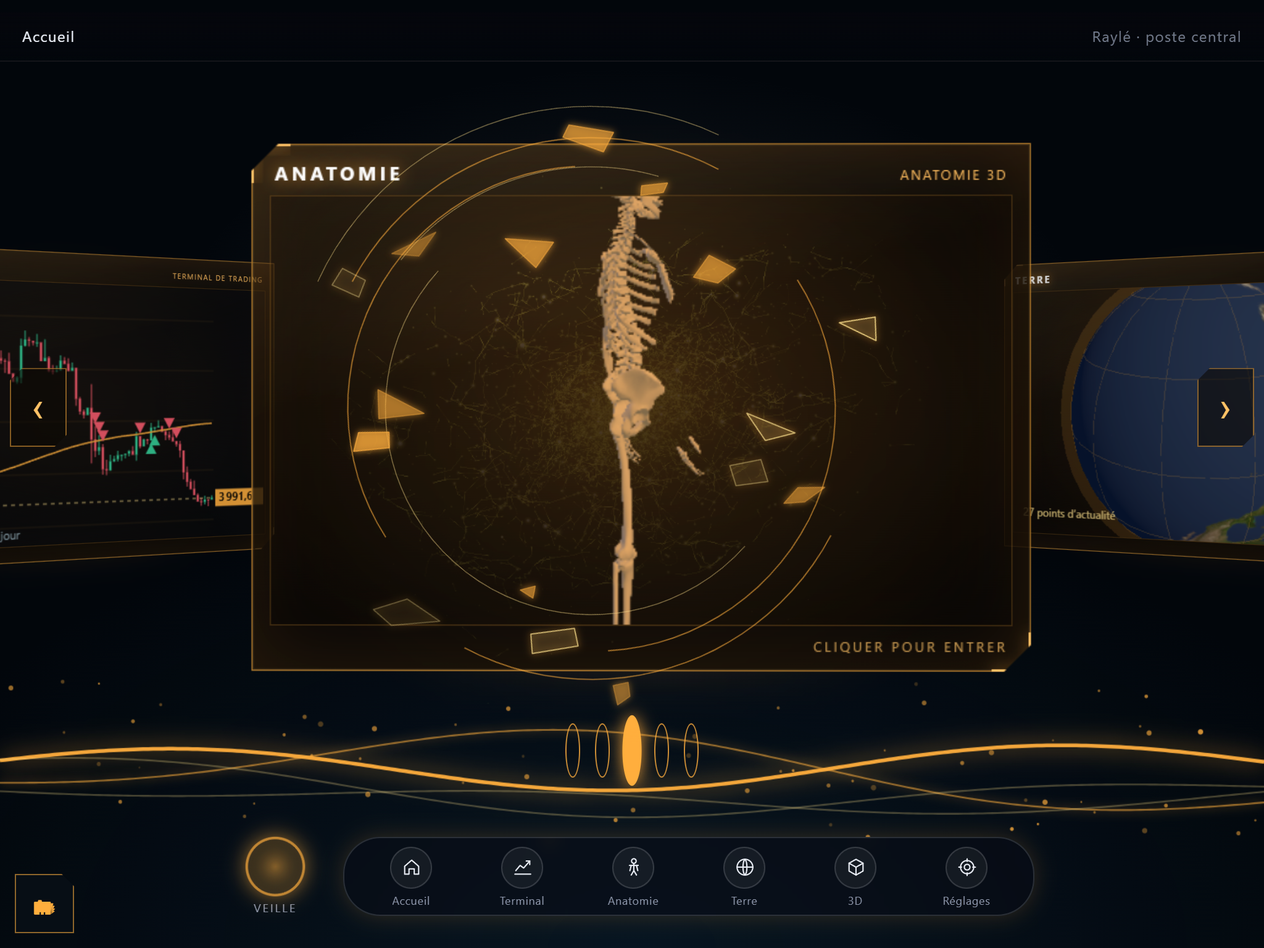
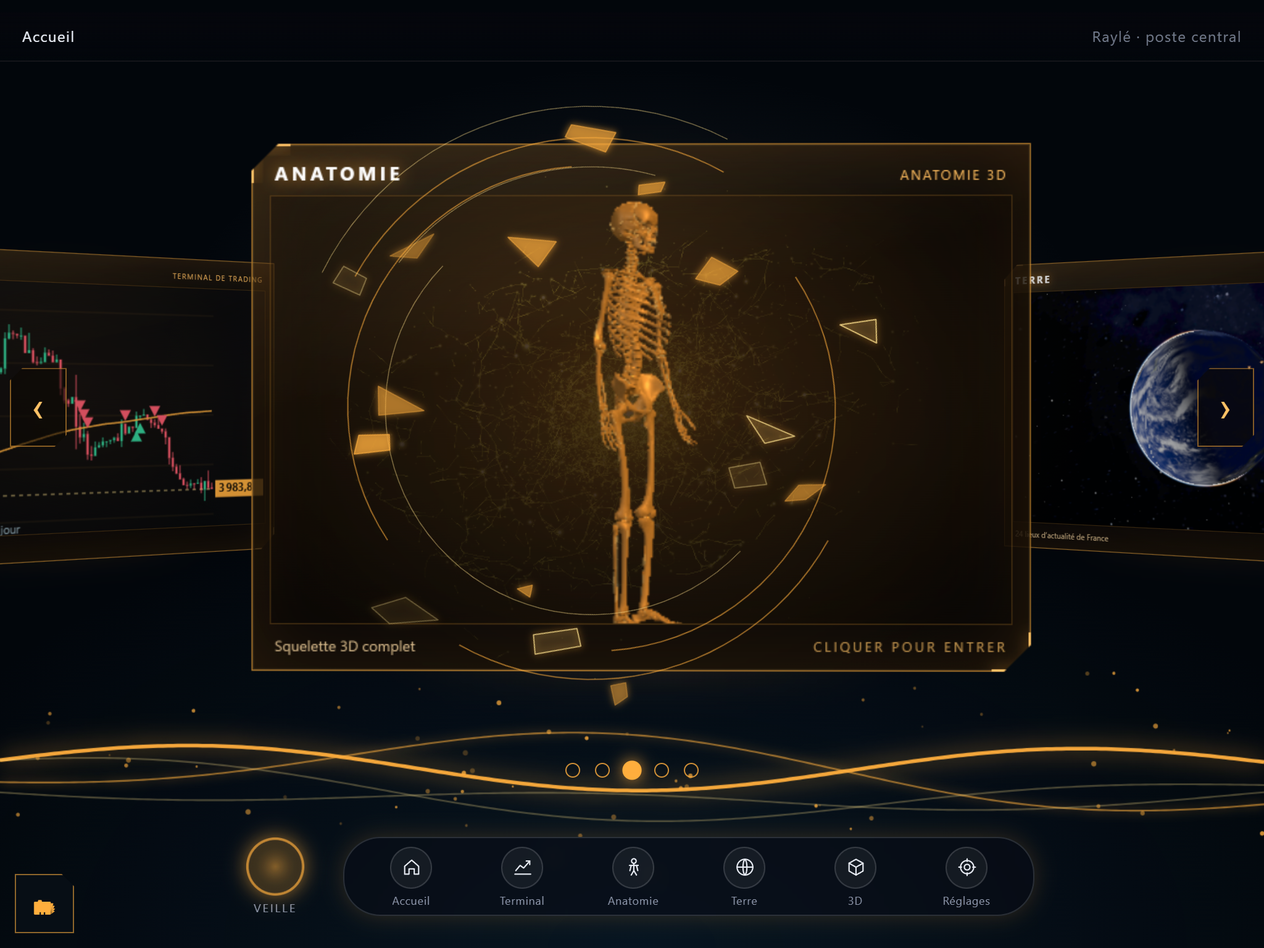
Etape 3 : Terre miniature = composant de la grande fenetre (globe.js, ciel, ACES), transition continue, pause hors centre ; squelette complet or chaud commun miniature/grande fenetre, eclairage 3 points, contours ; salle medicale doree ; tests et captures

diff --git a/core/commun/miniatures.js b/core/commun/miniatures.js
@@ -13,7 +13,7 @@
   let W=480, H=300;                         // résolution interne des miniatures (basse : 260 px de haut, largeur au format du panneau)
   const reduit=()=>!!(window.matchMedia&&matchMedia('(prefers-reduced-motion: reduce)').matches);
   const OR='#ffae3d', OR2='#ffe08a';
-  const minis=new Map(), visibles=new Set();
+  const minis=new Map(), visibles=new Set(); let centreId=null;
   let THREE=null, rendu=null, tempsMoyen=0, nMesures=0, lent=false, rafId=0, dernierTour=0;
 
   /* ───── moteur 3D partagé ───── */
@@ -75,48 +75,63 @@
     return { dessiner, tic(now){ if(!barres&&!charge) charger(); else if(now-dernierChargement>8000&&!charge) charger(); }, intervalle:1000, statique:false };
   }
 
-  /* ───── anatomie : squelette ───── */
+  /* ───── anatomie : le squelette COMPLET de la grande fenêtre (os-1 + os-2), même matériau or chaud (anatomie-or.js), éclairage à trois points, contours ───── */
   async function creerAnatomie(m){
-    await moteur(); const T=THREE;
-    m.scene=new T.Scene(); m.camera=new T.PerspectiveCamera(32,W/H,0.1,100); m.camera.position.set(0,0.1,4.6);
-    m.scene.add(new T.AmbientLight(0xffe6c0,0.9)); const l=new T.DirectionalLight(0xffc27a,2.2); l.position.set(2,3,4); m.scene.add(l); const l2=new T.DirectionalLight(0x7a9bff,0.6); l2.position.set(-3,1,-2); m.scene.add(l2);
+    await moteur(); const T=THREE, base=u=>new URL(u,document.baseURI).href;
+    const OR=await import(base('planetes/saturne/pc/anatomie-or.js'));
+    m.scene=new T.Scene(); m.camera=new T.PerspectiveCamera(30,W/H,0.1,100); m.camera.position.set(0,0.05,7.0);
+    OR.eclairageTroisPoints(m.scene,T);
     const pivot=new T.Group(); m.scene.add(pivot); m.pivot=pivot;
     try{
       const [{GLTFLoader},{MeshoptDecoder}]=await Promise.all([import('three/addons/loaders/GLTFLoader.js'),import('three/addons/libs/meshopt_decoder.module.js')]);
-      const g=await new GLTFLoader().setMeshoptDecoder(MeshoptDecoder).loadAsync(new URL('assets-lourds/anatomie/os-1.glb',document.baseURI).href);
-      const o=g.scene, boite=new T.Box3().setFromObject(o), taille=boite.getSize(new T.Vector3()), centre=boite.getCenter(new T.Vector3());
-      const s=3.3/Math.max(taille.y,0.001); o.scale.setScalar(s); o.position.sub(centre.multiplyScalar(s)); pivot.add(o);
-      o.traverse(x=>{ if(x.isMesh&&x.material){ x.material=x.material.clone(); if(x.material.color) x.material.color.lerp(new T.Color(0xffd9a0),0.35); } });
+      const L=new GLTFLoader().setMeshoptDecoder(MeshoptDecoder), parties=await Promise.all(['os-1','os-2'].map(f=>L.loadAsync(base('assets-lourds/anatomie/'+f+'.glb'))));
+      const corps=new T.Group(); for(const g of parties) corps.add(g.scene);
+      OR.teinterOr(corps,T);
+      const boite=new T.Box3().setFromObject(corps), taille=boite.getSize(new T.Vector3()), centre=boite.getCenter(new T.Vector3());
+      const s=3.6/Math.max(taille.y,0.001); corps.scale.setScalar(s); corps.position.sub(centre.multiplyScalar(s)); pivot.add(corps);
+      m.nbOs=OR.contours(corps,T);
     }catch(e){ m.erreur='squelette indisponible : '+String((e&&e.message)||e).slice(0,50); }
-    return { tic(now,dt){ pivot.rotation.y+=dt*0.45; if(!m.erreur||true) peindre3D(m); if(m.erreur){ m.ctx.fillStyle='#9db0bb'; m.ctx.font='13px "Segoe UI",system-ui,sans-serif'; m.ctx.fillText(m.erreur,12,H-18); } }, intervalle:50, statique:true };
+    return { tic(now,dt){ pivot.rotation.y+=dt*0.45; peindre3D(m); }, intervalle:50, statique:true };
   }
 
-  /* ───── terre : globe et actualité ───── */
+  /* ───── terre : LE composant de la grande fenêtre (globe.js : sphère de base jour / nuit, atmosphère, nuages, ciel étoilé, éclairage du soleil réel),
+     seulement en basse résolution : textures réduites, pas de tuiles (chargeur muet), pas de bâtiments ni de relief. Globe entier, centré, rotation lente. ───── */
   async function creerTerre(m){
-    await moteur(); const T=THREE;
-    m.scene=new T.Scene(); m.camera=new T.PerspectiveCamera(30,W/H,0.1,100); m.camera.position.set(0,0,5.2);
-    m.scene.add(new T.AmbientLight(0xffffff,0.55)); const s=new T.DirectionalLight(0xffe2b0,2.6); s.position.set(3,1.5,4); m.scene.add(s);
-    const globe=new T.Group(); m.scene.add(globe);
-    const mat=new T.MeshStandardMaterial({color:0x2a3a55,roughness:0.9,metalness:0}); const sph=new T.Mesh(new T.SphereGeometry(1.5,48,32),mat); globe.add(sph);
-    const halo=new T.Mesh(new T.SphereGeometry(1.62,32,24),new T.MeshBasicMaterial({color:0xffa83c,transparent:true,opacity:0.14,side:T.BackSide,blending:T.AdditiveBlending,depthWrite:false})); m.scene.add(halo);
-    // grille de méridiens dorés (toujours là, même sans texture)
-    const lignes=new T.Group(); const mg=new T.LineBasicMaterial({color:0xffae3d,transparent:true,opacity:0.22});
-    for(let la=-60;la<=60;la+=30){ const pts=[]; for(let lo=0;lo<=360;lo+=10){ pts.push(pos(la,lo-180,1.505,T)); } lignes.add(new T.Line(new T.BufferGeometry().setFromPoints(pts),mg)); }
-    for(let lo=-180;lo<180;lo+=30){ const pts=[]; for(let la=-90;la<=90;la+=10){ pts.push(pos(la,lo,1.505,T)); } lignes.add(new T.Line(new T.BufferGeometry().setFromPoints(pts),mg)); }
-    globe.add(lignes);
-    // texture réduite (décodage hors du fil principal) ; sans elle, le globe reste sombre avec sa grille
-    fetch(new URL('galaxie/textures/8k_earth_daymap.jpg',document.baseURI).href).then(r=>r.blob()).then(b=>createImageBitmap(b,{resizeWidth:1024,resizeHeight:512,resizeQuality:'low'})).then(bm=>{ const tx=new T.CanvasTexture(bm); tx.colorSpace=T.SRGBColorSpace; mat.map=tx; mat.color.set(0xffffff); mat.needsUpdate=true; }).catch(()=>{});
+    await moteur(); const T=THREE, base=u=>new URL(u,document.baseURI).href;
+    const [{creerGlobe},CO,REG,GEO,{creerCiel}]=await Promise.all([import(base('planetes/terre/pc/globe.js')),import(base('planetes/terre/pc/camera-orbite.js')),import(base('planetes/terre/pc/reglages-terre.js')),import(base('planetes/terre/pc/geo.js')),import(base('galaxie/ciel.js'))]);
+    const charger=async(fichier,w,h,couleur)=>{ const r=await fetch(base(fichier)); if(!r.ok) throw new Error('texture introuvable : '+fichier); const bm=await createImageBitmap(await r.blob(),{resizeWidth:w,resizeHeight:h,resizeQuality:'medium'}); const t=new T.CanvasTexture(bm); t.colorSpace=couleur; t.anisotropy=1; t.generateMipmaps=true; t.minFilter=T.LinearMipmapLinearFilter; t.needsUpdate=true; return t; };
+    // les mêmes images que la grande Terre (8k jour, nuit, nuages, Voie lactée), réduites
+    const [jour,nuit,nuages,voie]=await Promise.all([charger('galaxie/textures/8k_earth_daymap.jpg',1024,512,T.SRGBColorSpace),charger('galaxie/textures/2k_earth_nightmap.jpg',1024,512,T.SRGBColorSpace),charger('galaxie/textures/2k_earth_clouds.jpg',1024,512,T.NoColorSpace),charger('galaxie/textures/8k_stars_milky_way.jpg',1024,512,T.SRGBColorSpace)]);
+    const ciel=creerCiel({textureCiel:voie,anisotropie:()=>1}); ciel.nombreEtoiles(1500); ciel.riche(false); ciel.echelle(1);
+    const cfg={...REG.normaliser(null),profil:'basse',jeu:true,noms:false,batiments:false,radar:false,meteoAnim:false,ombres:false,nuages:true,nuagesReels:false,jourImagerie:null};
+    const chargeurMuet={demander:()=>{ const p=new Promise(()=>{}); p.annuler=()=>{}; return p; },etat:()=>({enFile:0,actives:0})};   // aucune tuile : le globe de base suffit à cette distance
+    const globe=creerGlobe({renderer:rendu,textures:{jour,nuit,nuages},ciel,chargeur:chargeurMuet,lire:()=>cfg,modeleVecteur:()=>null});
+    globe.scene.add(ciel.groupe);
+    const [{EffectComposer},{RenderPass},{OutputPass}]=await Promise.all([import('three/addons/postprocessing/EffectComposer.js'),import('three/addons/postprocessing/RenderPass.js'),import('three/addons/postprocessing/OutputPass.js')]);
+    const cible=new T.WebGLRenderTarget(W,H,{type:T.HalfFloatType}); const composer=new EffectComposer(rendu,cible); composer.setPixelRatio(1); composer.setSize(W,H); composer.addPass(new RenderPass(globe.scene,globe.camera)); composer.addPass(new OutputPass());
     // points d'actualité : lieux réels des sujets de France (Worker) ; aucun point sans données
-    const pts=new T.Group(); globe.add(pts); let n=0;
+    const pts=new T.Group(); globe.scene.add(pts); const lieux=[];
+    const etiquette=t=>{ try{ const s=m.canvas.closest('.ac-p').querySelector('footer span'); if(s) s.textContent=t; }catch(e){} };
     (async()=>{ try{
-      const [fil,suj]=await Promise.all([import(new URL('planetes/terre/pc/fil-actus.js',document.baseURI).href),import(new URL('planetes/terre/pc/actus-sujets.js',document.baseURI).href)]);
+      const [fil,suj]=await Promise.all([import(base('planetes/terre/pc/fil-actus.js')),import(base('planetes/terre/pc/actus-sujets.js'))]);
       const brut=await fil.chargerFil('france','',{}), mod=suj.modelesFil(brut,{max:40});
-      for(const x of mod.sujets){ const l=x.lieu; if(!l||!Number.isFinite(l.lat)||!Number.isFinite(l.lon)) continue; const p=new T.Mesh(new T.SphereGeometry(0.05,10,8),new T.MeshBasicMaterial({color:0xffd27a})); p.position.copy(pos(l.lat,l.lon,1.53,T)); pts.add(p); const h=new T.Mesh(new T.SphereGeometry(0.11,10,8),new T.MeshBasicMaterial({color:0xffa83c,transparent:true,opacity:0.3,blending:T.AdditiveBlending,depthWrite:false})); h.position.copy(p.position); pts.add(h); n++; }
-      m.info=n?n+' points d’actualité':'aucun lieu d’actualité'; }catch(e){ m.info='actualité indisponible'; } })();
-    globe.rotation.x=0.35; globe.rotation.y=-0.4;
-    return { tic(now,dt){ globe.rotation.y+=dt*0.28; peindre3D(m); if(m.info){ m.ctx.fillStyle='rgba(255,224,138,.9)'; m.ctx.font='12px "Segoe UI",system-ui,sans-serif'; m.ctx.fillText(m.info,12,H-18); } }, intervalle:50, statique:true };
+      for(const x of mod.sujets){ const l=x.lieu; if(!l||!Number.isFinite(l.lat)||!Number.isFinite(l.lon)) continue; const p=new T.Mesh(new T.SphereGeometry(1,10,8),new T.MeshBasicMaterial({color:0xffd27a,depthTest:true})); const h=new T.Mesh(new T.SphereGeometry(1,10,8),new T.MeshBasicMaterial({color:0xffa83c,transparent:true,opacity:0.3,blending:T.AdditiveBlending,depthWrite:false})); pts.add(p,h); lieux.push({p,h,v:GEO.vers(l.lon,l.lat,25)}); }
+      etiquette(lieux.length?lieux.length+' lieux d’actualité de France':'actualité chargée, aucun lieu repéré');
+    }catch(e){ etiquette('actualité non chargée'); } })();
+    const E=CO.etatInitial({lon:0,lat:18,dist:GEO.R*2.7,cap:0,incl:0}); E.lon=(Date.now()/240000)%360-180;   // même altitude d'orbite que la grande Terre ; longitude de départ qui bouge avec l'heure
+    m.terreEtat=()=>({lon:E.lon,lat:E.lat});
+    let aff=null;
+    return { tic(now,dt){
+      E.lon+=dt*4; if(E.lon>180) E.lon-=360;   // rotation lente (≈ 4° par seconde)
+      const pose=CO.pose(E,0); globe.maj(dt,pose,{largeur:W,hauteur:H},{date:new Date()});
+      for(const q of lieux){ q.p.position.set(q.v[0]-pose.cam[0],q.v[1]-pose.cam[1],q.v[2]-pose.cam[2]); q.p.scale.setScalar(55); q.h.position.copy(q.p.position); q.h.scale.setScalar(130); }
+      ciel.maj(dt);
+      const tm=rendu.toneMapping, ex=rendu.toneMappingExposure; rendu.toneMapping=T.ACESFilmicToneMapping; rendu.toneMappingExposure=1.05;
+      const t0=performance.now(); composer.render(dt); rendu.toneMapping=tm; rendu.toneMappingExposure=ex;
+      m.ctx.clearRect(0,0,W,H); m.ctx.drawImage(rendu.domElement,0,0,W,H);
+      const d=performance.now()-t0; nMesures++; if(nMesures>12) tempsMoyen=tempsMoyen?tempsMoyen*0.92+d*0.08:d;
+    }, intervalle:50, statique:true };
   }
-  function pos(lat,lon,r,T){ const la=lat*Math.PI/180, phi=(lon+180)*Math.PI/180; return new T.Vector3(-r*Math.cos(la)*Math.cos(phi),r*Math.sin(la),r*Math.cos(la)*Math.sin(phi)); }
 
   /* ───── développement 3D : engrenage ───── */
   async function creerDev3d(m){
@@ -130,7 +145,7 @@
     const g=new T.Mesh(geo,new T.MeshStandardMaterial({color:0xd9a441,metalness:0.85,roughness:0.32}));
     const fil=new T.LineSegments(new T.EdgesGeometry(geo,35),new T.LineBasicMaterial({color:0xffe08a,transparent:true,opacity:0.55}));
     const pivot=new T.Group(); pivot.add(g,fil); m.scene.add(pivot); pivot.rotation.x=0.5;
-    return { tic(now,dt){ pivot.rotation.y+=dt*0.7; pivot.rotation.z+=dt*0.2; peindre3D(m); m.ctx.fillStyle='rgba(255,224,138,.9)'; m.ctx.font='12px "Segoe UI",system-ui,sans-serif'; m.ctx.fillText('Atelier de maquettes 3D',12,H-18); }, intervalle:50, statique:true };
+    return { tic(now,dt){ pivot.rotation.y+=dt*0.7; pivot.rotation.z+=dt*0.2; peindre3D(m); }, intervalle:50, statique:true };
   }
 
   /* ───── accueil : anneaux discrets ───── */
@@ -142,6 +157,7 @@
   }
 
   /* ───── cycle de vie ───── */
+  const LIBELLES={terminal:'Or · H1 · Kraken · lecture seule',anatomie:'Squelette 3D complet',terre:'',dev3d:'Atelier de maquettes 3D',rayle:''};
   const FABRIQUES={terminal:creerTerminal,anatomie:creerAnatomie,terre:creerTerre,dev3d:creerDev3d,rayle:creerRayle};
   async function creer(id,canvas){
     if(minis.has(id)) return minis.get(id);
@@ -149,7 +165,7 @@
     canvas.width=W; canvas.height=H;
     const m={id,canvas,ctx:canvas.getContext('2d'),pret:false,dernier:0,fige:false,ctrl:null};
     minis.set(id,m);
-    try{ m.ctrl=await FABRIQUES[id](m); m.pret=true; }catch(e){ m.ctx.fillStyle='#9db0bb'; m.ctx.font='13px "Segoe UI",system-ui,sans-serif'; m.ctx.fillText('Aperçu indisponible : '+String((e&&e.message)||e).slice(0,60),12,24); m.erreurFatale=true; }
+    try{ m.ctrl=await FABRIQUES[id](m); m.pret=true; const s=canvas.closest('.ac-p'), pied=s&&s.querySelector('footer span'); if(pied&&!pied.textContent) pied.textContent=LIBELLES[id]||''; }catch(e){ m.ctx.fillStyle='#9db0bb'; m.ctx.font='13px "Segoe UI",system-ui,sans-serif'; m.ctx.fillText('Aperçu indisponible : '+String((e&&e.message)||e).slice(0,60),12,24); m.erreurFatale=true; }
     demarrerBoucle(); return m;
   }
   function boucle(now){
@@ -159,6 +175,7 @@
     for(const id of visibles){
       const m=minis.get(id); if(!m||!m.pret||!m.ctrl) continue;
       if(m.fige) continue;
+      if(id!==centreId&&m.dernier>0&&(m.ctrl.statique||id==='terminal')) continue;   // panneau voisin : une image suffit, le rendu vivant n'est fait que pour le panneau du centre
       if(now-m.dernier<m.ctrl.intervalle) continue; m.dernier=now;
       try{ m.ctrl.tic(now,(m.ctrl.intervalle?Math.max(dt,m.ctrl.intervalle/1000):dt)); }catch(e){ m.fige=true; }
     }
@@ -166,7 +183,7 @@
     if(nMesures>60&&tempsMoyen>24&&!lent){ lent=true; for(const m of minis.values()) if(m.ctrl&&m.ctrl.statique) m.fige=true; }
   }
   function demarrerBoucle(){ if(!rafId) rafId=requestAnimationFrame(boucle); }
-  function definirVisibles(ids){ visibles.clear(); for(const i of ids) visibles.add(i); if(reduit()) for(const m of minis.values()) if(m.ctrl&&m.ctrl.statique&&m.dernier) m.fige=true; }
-  window.Miniatures={creer,visibles:definirVisibles,etat:()=>({lent,tempsMoyenMs:+tempsMoyen.toFixed(1),minis:[...minis.values()].map(m=>({id:m.id,pret:m.pret,fige:m.fige,erreur:m.erreur||null}))}),
+  function definirVisibles(ids,centre){ centreId=centre||null; visibles.clear(); for(const i of ids) visibles.add(i); if(reduit()) for(const m of minis.values()) if(m.ctrl&&m.ctrl.statique&&m.dernier) m.fige=true; }
+  window.Miniatures={terreEtat:()=>{ const m=minis.get('terre'); try{ return m&&m.terreEtat?m.terreEtat():null; }catch(e){ return null; } },creer,visibles:definirVisibles,etat:()=>({lent,tempsMoyenMs:+tempsMoyen.toFixed(1),minis:[...minis.values()].map(m=>({id:m.id,pret:m.pret,fige:m.fige,erreur:m.erreur||null}))}),
     instantane:id=>{ const m=minis.get(id); try{ return m?m.canvas.toDataURL('image/jpeg',0.7):null; }catch(e){ return null; } }};
 })();

diff --git a/planetes/saturne/pc/salle-medicale.js b/planetes/saturne/pc/salle-medicale.js
@@ -10,7 +10,7 @@ export const HAUTEUR_TABLE = 0.92, HAUTEUR_HOLO = 1.12;           // m : plateau
 export const RAYON_SALLE = 6.5;
 
 export function creerSalleMedicale({ renderer, detail = 2 } = {}) {
-  const scene = new THREE.Scene(); scene.background = new THREE.Color(0x03070c); scene.fog = new THREE.FogExp2(0x03070c, 0.035);
+  const scene = new THREE.Scene(); scene.background = new THREE.Color(0x070502); scene.fog = new THREE.FogExp2(0x070502, 0.035);
   const camera = new THREE.PerspectiveCamera(58, 1, 0.03, 80);
   const R = alea(77);
   // environnement PBR : petite pièce neutre (reflets doux sur les métaux)
@@ -22,19 +22,19 @@ export function creerSalleMedicale({ renderer, detail = 2 } = {}) {
   // ── salle : parois en panneaux, sol, plafond
   const tex = peindreCoque({ taille: detail >= 2 ? 1024 : 512, graine: 63, teinte: [70, 80, 92], accents: true, hublots: false });
   for (const t of [tex.map, tex.roughnessMap, tex.normalMap, tex.emissiveMap]) t.repeat.set(5, 1.2);
-  const matParoi = new THREE.MeshStandardMaterial({ map: tex.map, roughnessMap: tex.roughnessMap, normalMap: tex.normalMap, emissiveMap: tex.emissiveMap, emissive: 0xffffff, emissiveIntensity: 0.9, metalness: 0.35, roughness: 1, side: THREE.BackSide });
+  const matParoi = new THREE.MeshStandardMaterial({ color: 0xe8c796, map: tex.map, roughnessMap: tex.roughnessMap, normalMap: tex.normalMap, emissiveMap: tex.emissiveMap, emissive: 0xf2d6ad, emissiveIntensity: 0.9, metalness: 0.35, roughness: 1, side: THREE.BackSide });
   const murs = new THREE.Mesh(new THREE.CylinderGeometry(RAYON_SALLE, RAYON_SALLE, 3.6, 48, 1, true), matParoi); murs.position.y = 1.8; murs.receiveShadow = true; scene.add(murs);
-  const cvSol = document.createElement('canvas'); cvSol.width = cvSol.height = 512; { const c = cvSol.getContext('2d'); c.fillStyle = '#0c131b'; c.fillRect(0, 0, 512, 512); c.strokeStyle = 'rgba(143,208,227,0.18)'; c.lineWidth = 2; for (let r = 40; r < 256; r += 44) { c.beginPath(); c.arc(256, 256, r, 0, 6.2832); c.stroke(); } for (let a = 0; a < 24; a++) { c.beginPath(); c.moveTo(256, 256); c.lineTo(256 + Math.cos(a / 24 * 6.2832) * 256, 256 + Math.sin(a / 24 * 6.2832) * 256); c.stroke(); } }
+  const cvSol = document.createElement('canvas'); cvSol.width = cvSol.height = 512; { const c = cvSol.getContext('2d'); c.fillStyle = '#14100a'; c.fillRect(0, 0, 512, 512); c.strokeStyle = 'rgba(143,208,227,0.18)'; c.lineWidth = 2; for (let r = 40; r < 256; r += 44) { c.beginPath(); c.arc(256, 256, r, 0, 6.2832); c.stroke(); } for (let a = 0; a < 24; a++) { c.beginPath(); c.moveTo(256, 256); c.lineTo(256 + Math.cos(a / 24 * 6.2832) * 256, 256 + Math.sin(a / 24 * 6.2832) * 256); c.stroke(); } }
   const texSol = new THREE.CanvasTexture(cvSol); texSol.colorSpace = THREE.SRGBColorSpace; texSol.anisotropy = 8;
   const sol = new THREE.Mesh(new THREE.CircleGeometry(RAYON_SALLE, 64), new THREE.MeshStandardMaterial({ map: texSol, roughness: 0.4, metalness: 0.6, envMapIntensity: 0.6 })); sol.rotation.x = -Math.PI / 2; sol.receiveShadow = true; scene.add(sol);
-  const plafond = new THREE.Mesh(new THREE.CircleGeometry(RAYON_SALLE, 48), new THREE.MeshStandardMaterial({ color: 0x151d27, roughness: 0.7, metalness: 0.5 })); plafond.rotation.x = Math.PI / 2; plafond.position.y = 3.6; scene.add(plafond);
-  const anneauPlafond = new THREE.Mesh(new THREE.TorusGeometry(2.6, 0.06, 8, 96), new THREE.MeshBasicMaterial({ color: 0xcfeaff })); anneauPlafond.rotation.x = Math.PI / 2; anneauPlafond.position.y = 3.55; scene.add(anneauPlafond);
+  const plafond = new THREE.Mesh(new THREE.CircleGeometry(RAYON_SALLE, 48), new THREE.MeshStandardMaterial({ color: 0x1c1812, roughness: 0.7, metalness: 0.5 })); plafond.rotation.x = Math.PI / 2; plafond.position.y = 3.6; scene.add(plafond);
+  const anneauPlafond = new THREE.Mesh(new THREE.TorusGeometry(2.6, 0.06, 8, 96), new THREE.MeshBasicMaterial({ color: 0xffd8a0 })); anneauPlafond.rotation.x = Math.PI / 2; anneauPlafond.position.y = 3.55; scene.add(anneauPlafond);
 
   // ── table holographique
   const table = new THREE.Group(); scene.add(table);
-  const mMetal = new THREE.MeshStandardMaterial({ color: 0x8993a1, roughness: 0.28, metalness: 0.95 }), mLed = new THREE.MeshBasicMaterial({ color: 0x8fd0e3 });
+  const mMetal = new THREE.MeshStandardMaterial({ color: 0x9a8b74, roughness: 0.28, metalness: 0.95 }), mLed = new THREE.MeshBasicMaterial({ color: 0xffae3d });
   const pied = new THREE.Mesh(new THREE.CylinderGeometry(0.42, 0.7, HAUTEUR_TABLE - 0.05, 40), mMetal); pied.position.y = (HAUTEUR_TABLE - 0.05) / 2; pied.castShadow = pied.receiveShadow = true; table.add(pied);
-  const plateau = new THREE.Mesh(new THREE.CylinderGeometry(1.15, 1.05, 0.09, 64), new THREE.MeshPhysicalMaterial({ color: 0x0b1620, roughness: 0.55, metalness: 0.1, clearcoat: 0.15, clearcoatRoughness: 0.6, transparent: true, opacity: 0.94 })); plateau.position.y = HAUTEUR_TABLE - 0.02; plateau.castShadow = plateau.receiveShadow = true; table.add(plateau);
+  const plateau = new THREE.Mesh(new THREE.CylinderGeometry(1.15, 1.05, 0.09, 64), new THREE.MeshPhysicalMaterial({ color: 0x1a1208, roughness: 0.55, metalness: 0.1, clearcoat: 0.15, clearcoatRoughness: 0.6, transparent: true, opacity: 0.94 })); plateau.position.y = HAUTEUR_TABLE - 0.02; plateau.castShadow = plateau.receiveShadow = true; table.add(plateau);
   const rim = new THREE.Mesh(new THREE.TorusGeometry(1.14, 0.014, 8, 128), mLed); rim.rotation.x = Math.PI / 2; rim.position.y = HAUTEUR_TABLE + 0.03; table.add(rim);
   const socle = new THREE.Mesh(new THREE.TorusGeometry(0.72, 0.014, 8, 64), mLed); socle.rotation.x = Math.PI / 2; socle.position.y = 0.03; table.add(socle);
   const cvLueur = document.createElement('canvas'); cvLueur.width = cvLueur.height = 256; { const c = cvLueur.getContext('2d'), g = c.createRadialGradient(128, 128, 4, 128, 128, 128); g.addColorStop(0, 'rgba(143,208,227,0.75)'); g.addColorStop(0.6, 'rgba(143,208,227,0.14)'); g.addColorStop(1, 'rgba(143,208,227,0)'); c.fillStyle = g; c.fillRect(0, 0, 256, 256); }
@@ -63,8 +63,8 @@ export function creerSalleMedicale({ renderer, detail = 2 } = {}) {
   const etiquette = new THREE.Mesh(new THREE.PlaneGeometry(1.4, 0.26), new THREE.MeshBasicMaterial({ map: tC, transparent: true, depthWrite: false, toneMapped: false })); etiquette.position.set(0, 1.24, 0); holo.add(etiquette);
   function ecrireEtiquette(titre, sous = '', progres = null) {
     cxC.clearRect(0, 0, 512, 96); cxC.fillStyle = 'rgba(4,9,15,0.82)'; cxC.fillRect(0, 0, 512, 96); cxC.strokeStyle = 'rgba(143,208,227,0.45)'; cxC.lineWidth = 2; cxC.strokeRect(2, 2, 508, 92);
-    cxC.font = '600 24px "Cascadia Mono", Consolas, monospace'; cxC.fillStyle = '#8fd0e3'; cxC.textAlign = 'center'; cxC.fillText(titre, 256, 36); cxC.font = '15px "Cascadia Mono", Consolas, monospace'; cxC.fillStyle = '#c9b27a'; cxC.fillText(sous, 256, 60);
-    if (progres !== null) { cxC.fillStyle = 'rgba(143,208,227,0.18)'; cxC.fillRect(40, 72, 432, 8); cxC.fillStyle = '#8fd0e3'; cxC.fillRect(40, 72, 432 * Math.max(0, Math.min(1, progres)), 8); }
+    cxC.font = '600 24px "Cascadia Mono", Consolas, monospace'; cxC.fillStyle = '#ffae3d'; cxC.textAlign = 'center'; cxC.fillText(titre, 256, 36); cxC.font = '15px "Cascadia Mono", Consolas, monospace'; cxC.fillStyle = '#c9b27a'; cxC.fillText(sous, 256, 60);
+    if (progres !== null) { cxC.fillStyle = 'rgba(143,208,227,0.18)'; cxC.fillRect(40, 72, 432, 8); cxC.fillStyle = '#ffae3d'; cxC.fillRect(40, 72, 432 * Math.max(0, Math.min(1, progres)), 8); }
     tC.needsUpdate = true;
   }
   ecrireEtiquette('SQUELETTE HUMAIN', 'modèle anatomique non chargé');
@@ -75,7 +75,7 @@ export function creerSalleMedicale({ renderer, detail = 2 } = {}) {
   // ── éclairage neutre et doux (A4 : plus de lueur colorée autour du squelette) : ambiante hémisphérique, clé blanche chaude, contre-jour froid très faible
   scene.add(new THREE.HemisphereLight(0xe9eef4, 0x2a313a, 0.6));
   const haut = new THREE.DirectionalLight(0xf3f1ec, 0.85); haut.position.set(1.5, 5, 2); haut.castShadow = detail >= 1; haut.shadow.mapSize.set(detail >= 2 ? 2048 : 1024, detail >= 2 ? 2048 : 1024); const sc = haut.shadow.camera; sc.left = -5; sc.right = 5; sc.top = 5; sc.bottom = -5; sc.near = 0.5; sc.far = 14; haut.shadow.bias = -0.0006; scene.add(haut);
-  const contreJour = new THREE.DirectionalLight(0xcfe0f0, 0.35); contreJour.position.set(-2, 3, -3); scene.add(contreJour);
+  const contreJour = new THREE.DirectionalLight(0xffe6c4, 0.35); contreJour.position.set(-2, 3, -3); scene.add(contreJour);
   const lumiereTable = new THREE.PointLight(0xffffff, 0, 6, 1.6); lumiereTable.position.set(0, HAUTEUR_TABLE + 0.7, 0); scene.add(lumiereTable);        // gardée (éteinte) : l'anatomie la réglait
   const lumiereChaude = new THREE.PointLight(0xffe2b8, 0.0, 12, 1.2); lumiereChaude.position.set(-3, 3.0, 2); scene.add(lumiereChaude);
 

diff --git a/core/commun/application.js b/core/commun/application.js
@@ -69,7 +69,7 @@
     racine.querySelector('.ac-g').hidden=cible===0; racine.querySelector('.ac-d').hidden=cible===N-1;
     if(!ouvert){
       for(const id of ids){ const p=panneaux[FENETRES.findIndex(f=>f.id===id)], c=p&&p.querySelector('canvas'); if(c&&!c.dataset.m&&window.Miniatures){ c.dataset.m='1'; window.Miniatures.creer(id,c); } }
-      if(window.Miniatures) window.Miniatures.visibles(ids);
+      if(window.Miniatures){ let c=null,dm=0.5; panneaux.forEach((p,i)=>{ const d=Math.abs(i-pos); if(d<dm){ dm=d; c=FENETRES[i].id; } }); window.Miniatures.visibles(ids,c); }
     } else if(window.Miniatures) window.Miniatures.visibles([]);
   }
 
@@ -153,13 +153,14 @@
     let n=0; while(!window.Galaxie&&n++<80) await attendre(50);
     if(!window.Galaxie) throw new Error('le moteur 3D n’a pas démarré');
     window.Galaxie.entrerPlanete(PLANETE[id]);
-    if(id==='terre'&&!(opts&&opts.sansActu)){ n=0; while(!(window.Terre&&window.Terre.etat&&window.Terre.etat().actif&&window.Terre.etat().entree)&&n++<150) await attendre(100); try{ if(window.Terre&&window.Terre.afficherFil) window.Terre.afficherFil({portee:'france'}).catch(e=>console.warn('[app] actualité :',e&&e.message)); }catch(e){ console.warn('[app] actualité :',e); } }
+    if(id==='terre'&&!(opts&&opts.sansActu)){ n=0; while(!(window.Terre&&window.Terre.etat&&window.Terre.etat().actif&&window.Terre.etat().entree)&&n++<150) await attendre(100); try{ if(window.Terre&&window.Terre.afficherFil) window.Terre.afficherFil({portee:'france',vol:false}).catch(e=>console.warn('[app] actualité :',e&&e.message)); }catch(e){ console.warn('[app] actualité :',e); } }
     if(id==='anatomie'){ n=0; const pret=()=>{ const s=window.Saturne&&window.Saturne.etat&&window.Saturne.etat(); return !!(s&&s.actif&&s.entree&&!s.transition); }; while(!pret()&&n++<200) await attendre(80); try{ await window.Saturne.salleMedicale(); }catch(e){ console.warn('[app] salle médicale :',e); } }
   }
   async function ouvrir(id,opts){
     const f=FENETRES.find(x=>x.id===id); if(!f||id==='rayle') return aller(0,{force:true});
     if(ouvert===id) return true; if(ouvert) await fermer({silencieux:true,sansAnim:true});
     const i=FENETRES.indexOf(f); if(Math.abs(pos-i)>0.5){ cible=i; pos=i; vel=0; placer(); }
+    if(id==='terre'){ try{ window.__RAYLE_TERRE_DEPART__=window.Miniatures&&window.Miniatures.terreEtat?window.Miniatures.terreEtat():null; }catch(e){} }   // la grande Terre démarre là où tournait la miniature
     const g=grandir(id);
     ouvert=id; corps.classList.add('app-ouvert'); croix.hidden=false; corps.dataset.appOuvert=id; placer();
     try{

diff --git a/planetes/saturne/pc/anatomie-or.js b/planetes/saturne/pc/anatomie-or.js
@@ -1,0 +1,35 @@
+/* ═════════════ SQUELETTE EN OR CHAUD (thème Rayle) : le MÊME matériau pour la miniature du carrousel et la grande fenêtre d'anatomie ═════════════
+   Or chaud, légèrement métallique, avec une faible émission chaude (le squelette ressort sur le fond noir), et un éclairage à trois points (clé chaude, remplissage froid faible, contre-jour doré).
+   La miniature n'est qu'un rendu réduit du même modèle (assets-lourds/anatomie/os-1.glb + os-2.glb). */
+export const OR = Object.freeze({ couleur: 0xe0a64a, emissive: 0x4a2200, emissiveIntensite: 0.42, metal: 0.5, rugosite: 0.42 });
+
+/* Teinte tous les matériaux d'un groupe d'os (les matériaux du fichier sont modifiés sur place : ils sont propres à ce modèle). */
+export function teinterOr(racine, T) {
+  const vus = new Set();
+  racine.traverse(o => {
+    if (!o.isMesh || !o.material) return;
+    for (const m of (Array.isArray(o.material) ? o.material : [o.material])) {
+      if (vus.has(m)) continue; vus.add(m);
+      if (m.color) m.color.set(OR.couleur); if ('metalness' in m) m.metalness = OR.metal; if ('roughness' in m) m.roughness = OR.rugosite;
+      if (m.emissive) { m.emissive.set(OR.emissive); m.emissiveIntensity = OR.emissiveIntensite; }
+      m.needsUpdate = true;
+    }
+  });
+  return vus.size;
+}
+
+/* Éclairage à trois points pour une scène à part (miniature) : clé chaude de face, remplissage froid faible, contre-jour doré. */
+export function eclairageTroisPoints(scene, T) {
+  scene.add(new T.AmbientLight(0xffe8c4, 0.55));
+  const cle = new T.DirectionalLight(0xffd29a, 2.6); cle.position.set(2.5, 3, 4); scene.add(cle);
+  const remplissage = new T.DirectionalLight(0xbcc8ff, 0.5); remplissage.position.set(-3, 0.5, 2.5); scene.add(remplissage);
+  const contre = new T.DirectionalLight(0xffb347, 2.2); contre.position.set(0, 2.5, -4); scene.add(contre);
+}
+
+/* Contours : arêtes marquées, fines, dorées (miniature seulement). */
+export function contours(racine, T, { angle = 50, opacite = 0.28 } = {}) {
+  const lignes = [];
+  racine.traverse(o => { if (o.isMesh && o.geometry) lignes.push(o); });
+  for (const o of lignes) { try { const e = new T.LineSegments(new T.EdgesGeometry(o.geometry, angle), new T.LineBasicMaterial({ color: 0xffd27a, transparent: true, opacity: opacite })); o.add(e); } catch (err) { /* géométrie sans arêtes */ } }
+  return lignes.length;
+}

diff --git a/planetes/saturne/pc/anatomie-vue.js b/planetes/saturne/pc/anatomie-vue.js
@@ -13,7 +13,7 @@ import { TEXTE_ECHELLE, ECHELLE_MUSCULAIRE } from './anatomie-muscles.js';
    Les mesures sont celles des modèles BodyParts3D (un homme adulte de référence) : indicatives, jamais cliniques. */
 const ECHELLE = 0.8, CENTRE_Y = 0.9;            // corps de 1,75 m → 1,4 m dans le volume ; centre approximatif du corps à 0,9 m
 const AXES = { x: new THREE.Vector3(1, 0, 0), y: new THREE.Vector3(0, 1, 0), z: new THREE.Vector3(0, 0, 1) };
-const COULEUR_SEL = new THREE.Color(0x6fe6ff), COULEUR_B = new THREE.Color(0xc9b27a);
+const COULEUR_SEL = new THREE.Color(0xff7a1a), COULEUR_B = new THREE.Color(0xc9b27a);
 
 function decouper(texte, n) { const mots = String(texte || '').split(/\s+/), l = []; let c = ''; for (const m of mots) { if ((c + ' ' + m).trim().length > n) { l.push(c); c = m; } else c = (c + ' ' + m).trim(); } if (c) l.push(c); return l; }
 
@@ -111,7 +111,7 @@ export async function creerAnatomie({ api, salle, renderer, ui }) {
       if (!index.systemes().includes(sys) && !schemas.has(sys)) return { ok: false, erreur: 'système inconnu : ' + sys };
       if (etat.charges.has(sys)) { if (etat.chargements && etat.chargements.has(sys)) await etat.chargements.get(sys); return { ok: true, deja: true }; }
       etat.charges.add(sys); (etat.chargements = etat.chargements || new Map());
-      const p = (async () => { const g = schemas.has(sys) ? await schemas.get(sys)() : await api.modeles.charger('anatomie-' + sys, { surProgres }); racine.add(g); ajouterMeshs(g); appliquerEtat(); })();
+      const p = (async () => { const g = schemas.has(sys) ? await schemas.get(sys)() : await api.modeles.charger('anatomie-' + sys, { surProgres }); if (sys === 'os') { try { const OR = await import('./anatomie-or.js'); OR.teinterOr(g, THREE); } catch (e) { /* teinte facultative */ } } racine.add(g); ajouterMeshs(g); appliquerEtat(); })();
       etat.chargements.set(sys, p); try { await p; } catch (e) { etat.charges.delete(sys); throw e; } finally { etat.chargements.delete(sys); }
       return { ok: true };
     },

diff --git a/planetes/terre/pc/index.js b/planetes/terre/pc/index.js
@@ -308,6 +308,8 @@ async function construire(G) {
         const h = v.haut, hd = unit(sub(h, mul(v.dir, dot(h, v.dir))));    // haut de l'écran projeté sur le plan tangent
         cam = C.etatInitial({ lon: ll.lon, lat: ll.lat, dist: Math.max(1000, (v.distance / v.rayon - 1) * R), cap: Math.atan2(dot(hd, b.est), dot(hd, b.nord)), incl: 0 });
       }
+      const dep = window.__RAYLE_TERRE_DEPART__;   // ouverture depuis le carrousel : même point de départ que la miniature (transition continue)
+      if (dep && Number.isFinite(dep.lon) && Number.isFinite(dep.lat)) { cam = C.etatInitial({ lon: dep.lon, lat: dep.lat, dist: ORBITE.dist, cap: 0, incl: 0 }); window.__RAYLE_TERRE_DEPART__ = null; }
       G.nav.selectionner(null);
       noms.vider(); globe.tuiles.forcer(); calculer(); chargerPays(); radarMaj();
       globe.scene.add(G.ciel.groupe);

diff --git a/PROGRESS.md b/PROGRESS.md
@@ -13,6 +13,22 @@ Règle : les flèches marquent des ÉVÉNEMENTS de lecture, pas des trades renta
 - `agent-trading/front/or/rsi-lecture-v1.js` (scellé) : RSI 14 de Wilder, pivots confirmés par 5 bougies de chaque côté, divergences entre deux pivots consécutifs de même nature (distance ≤ 60 bougies), posées seulement à la confirmation du second pivot (donc avec 5 bougies de retard, jamais redessinées ; dit dans l'infobulle). `rsi-ui.js` : UN seul RSI, sur la timeframe affichée (suit M5 / M15 / H1 / H4 / Jour), couche « RSI » dans Couches, activée par défaut (une migration l'allume une fois, puis le choix est mémorisé). `graph.rsi()` : ligne dorée, 70 / 30 discrets, 50 en pointillé très léger, remplissage léger au-dessus de 70 et sous 30, trait entre les pivots + étiquette « div ». L'ancien RSI H1 du module des schémas est retiré (un seul RSI possible). Le mode (Pro / ICT / Flux) ne touche plus ni le RSI ni les flèches de lecture.
 - Tests : `rsi-lecture-test.mjs` (29 : égalité avec un calcul de référence sur 500 bougies à 1e-9, pivots, divergences, aucun repaint, sceau) dans `npm test` ; Chrome `rsi-chrome.mjs` (1600, 1024, 390 px, vraies données Kraken : une seule ligne et au plus 3 volets, suit la timeframe, valeur = référence de Wilder sur les bougies affichées, case mémorisée après rechargement) : passe. Captures : `outils-restructuration/captures/rsi-*.png`.
 
+## Étape 3 — Rayle : Terre et squelette du carrousel : FAITE
+**A. Terre miniature = le composant de la grande fenêtre.** `core/commun/miniatures.js` instancie `creerGlobe` (planetes/terre/pc/globe.js : sphère de base jour / nuit, atmosphère, nuages, soleil réel), `camera-orbite.js`, `reglages-terre.js` et `galaxie/ciel.js` (Voie lactée et étoiles) : mêmes images (8k jour réduit à 1024, nuit, nuages, Voie lactée), même passe de sortie (ACES + sRGB), même altitude d'orbite ; seule la résolution (260 px de haut) et la géométrie (aucune tuile, aucun bâtiment, relief absent) sont réduites. Globe entier et centré (jamais rogné), rotation lente (≈ 4°/s) ; ombre jour / nuit et atmosphère visibles. Le texte posé sur le globe est supprimé : le libellé discret (« 24 lieux d'actualité de France », « actualité non chargée ») est dans le pied du panneau. Les points d'actualité viennent des lieux réels des sujets du Worker (aucun point sans données).
+- **Clic** : la grande Terre démarre à la longitude / latitude où tournait la miniature (`window.__RAYLE_TERRE_DEPART__`, lu par `planetes/terre/pc/index.js`) ; l'actualité s'affiche SANS faire voler la caméra (`afficherFil({vol:false})`). Test : écart de longitude 0,0° après l'ouverture.
+- **Pause** : seul le panneau du CENTRE est rendu en direct ; un voisin garde sa dernière image (le terminal aussi, une fois chargé) ; hors écran ou onglet caché : plus aucun rendu ; image fixe si l'appareil est lent. Test : `outils-restructuration/test-miniatures.mjs` (5/5 sur PC 1600 et téléphone 390).
+**B. Squelette 3D.** Même modèle et même matériau dans la miniature et la grande fenêtre (`planetes/saturne/pc/anatomie-or.js`) : or chaud légèrement métallique, faible émission chaude, éclairage à trois points (clé chaude, remplissage froid faible, contre-jour doré) dans la miniature, contours (arêtes dorées fines) dans la miniature seulement (la grande fenêtre garde l'éclairage de la salle et le contre-jour pour ne pas alourdir ses 202 os), rotation lente. La miniature charge os-1 + os-2 (avant : seulement os-1, d'où un squelette incomplet) et le cadre montre le squelette ENTIER. Couleur de sélection des pièces : orange vif (était cyan). La salle médicale passe aussi à l'or (anneau de la table, plafond, parois chauffées).
+- Modèle **conservé, pas remplacé** : 202 os vérifiés dans l'index (mandibule 1, vertèbres 22, sternum, clavicules 2, omoplates 2, sacrum, 56 phalanges, 10 métacarpiens, 10 métatarsiens, calcanéums 2…) ; manquent coccyx, lacrymaux, cornets inférieurs, osselets (voir `INVENTAIRE.md`, source BodyParts3D CC BY 4.0).
+- Captures : `outils-restructuration/captures/` (`terre-miniature-*`, `terre-grande-*`, `squelette-miniature-*`, `squelette-grande-fenetre-*` en PC 1600 et téléphone 390 ; `fleches-lecture-*`, `rsi-*`).
+- Mesures (profil téléphone 390 px, processeur ×4) : 144 images/s au repos sur les cinq panneaux, minimum 103 images/s (images de 21 ms au pire) pendant un balayage ; PC : 144 partout. Tous les tests Chrome du carrousel (1600, 1024, 390 px, balayage souris et tactile, clic d'agrandissement, croix) : 11/11.
+
+## Reste à faire / non vérifié (cette mission)
+- 60 images/s sur le VRAI Galaxy S23 Ultra (émulation seulement : le ralentissement ×4 ne touche pas le GPU du PC).
+- Étiquettes « proposé H4 » : les flèches sont retirées mais les lignes et leurs étiquettes de texte restent (« lignes ou zones discrètes ») : le graphique reste chargé de texte sur certaines vues.
+- Les couleurs cyan restantes dans le code des fenêtres de la Terre dessinées en canvas (étiquettes, balises) ne sont pas recolorées.
+- Signal précoce « 2 bougies sur un niveau » : 0 occurrence affichée sur 2026 (la réaction ≥ 0,5 ATR arrive en général avant) ; la logique est testée sur scénario fabriqué.
+- Lanceur et backend local : voir la réponse finale (lecture de lancement.log).
+
 # Design doré + carrousel 3D + actualité en local (2026-11-11, branche `restructuration-rayle`) — avancement
 
 **Fait, rien poussé ni déployé.** Captures : `outils-restructuration/captures-design/` (avant : `avant-ambre.png` = tag, thème Aurore « Doré » ; après : `car-*.png` PC 1600, `apres-tab1024-*.png`, `apres-tel390-*.png`, `grow-mi-transition.png`).
